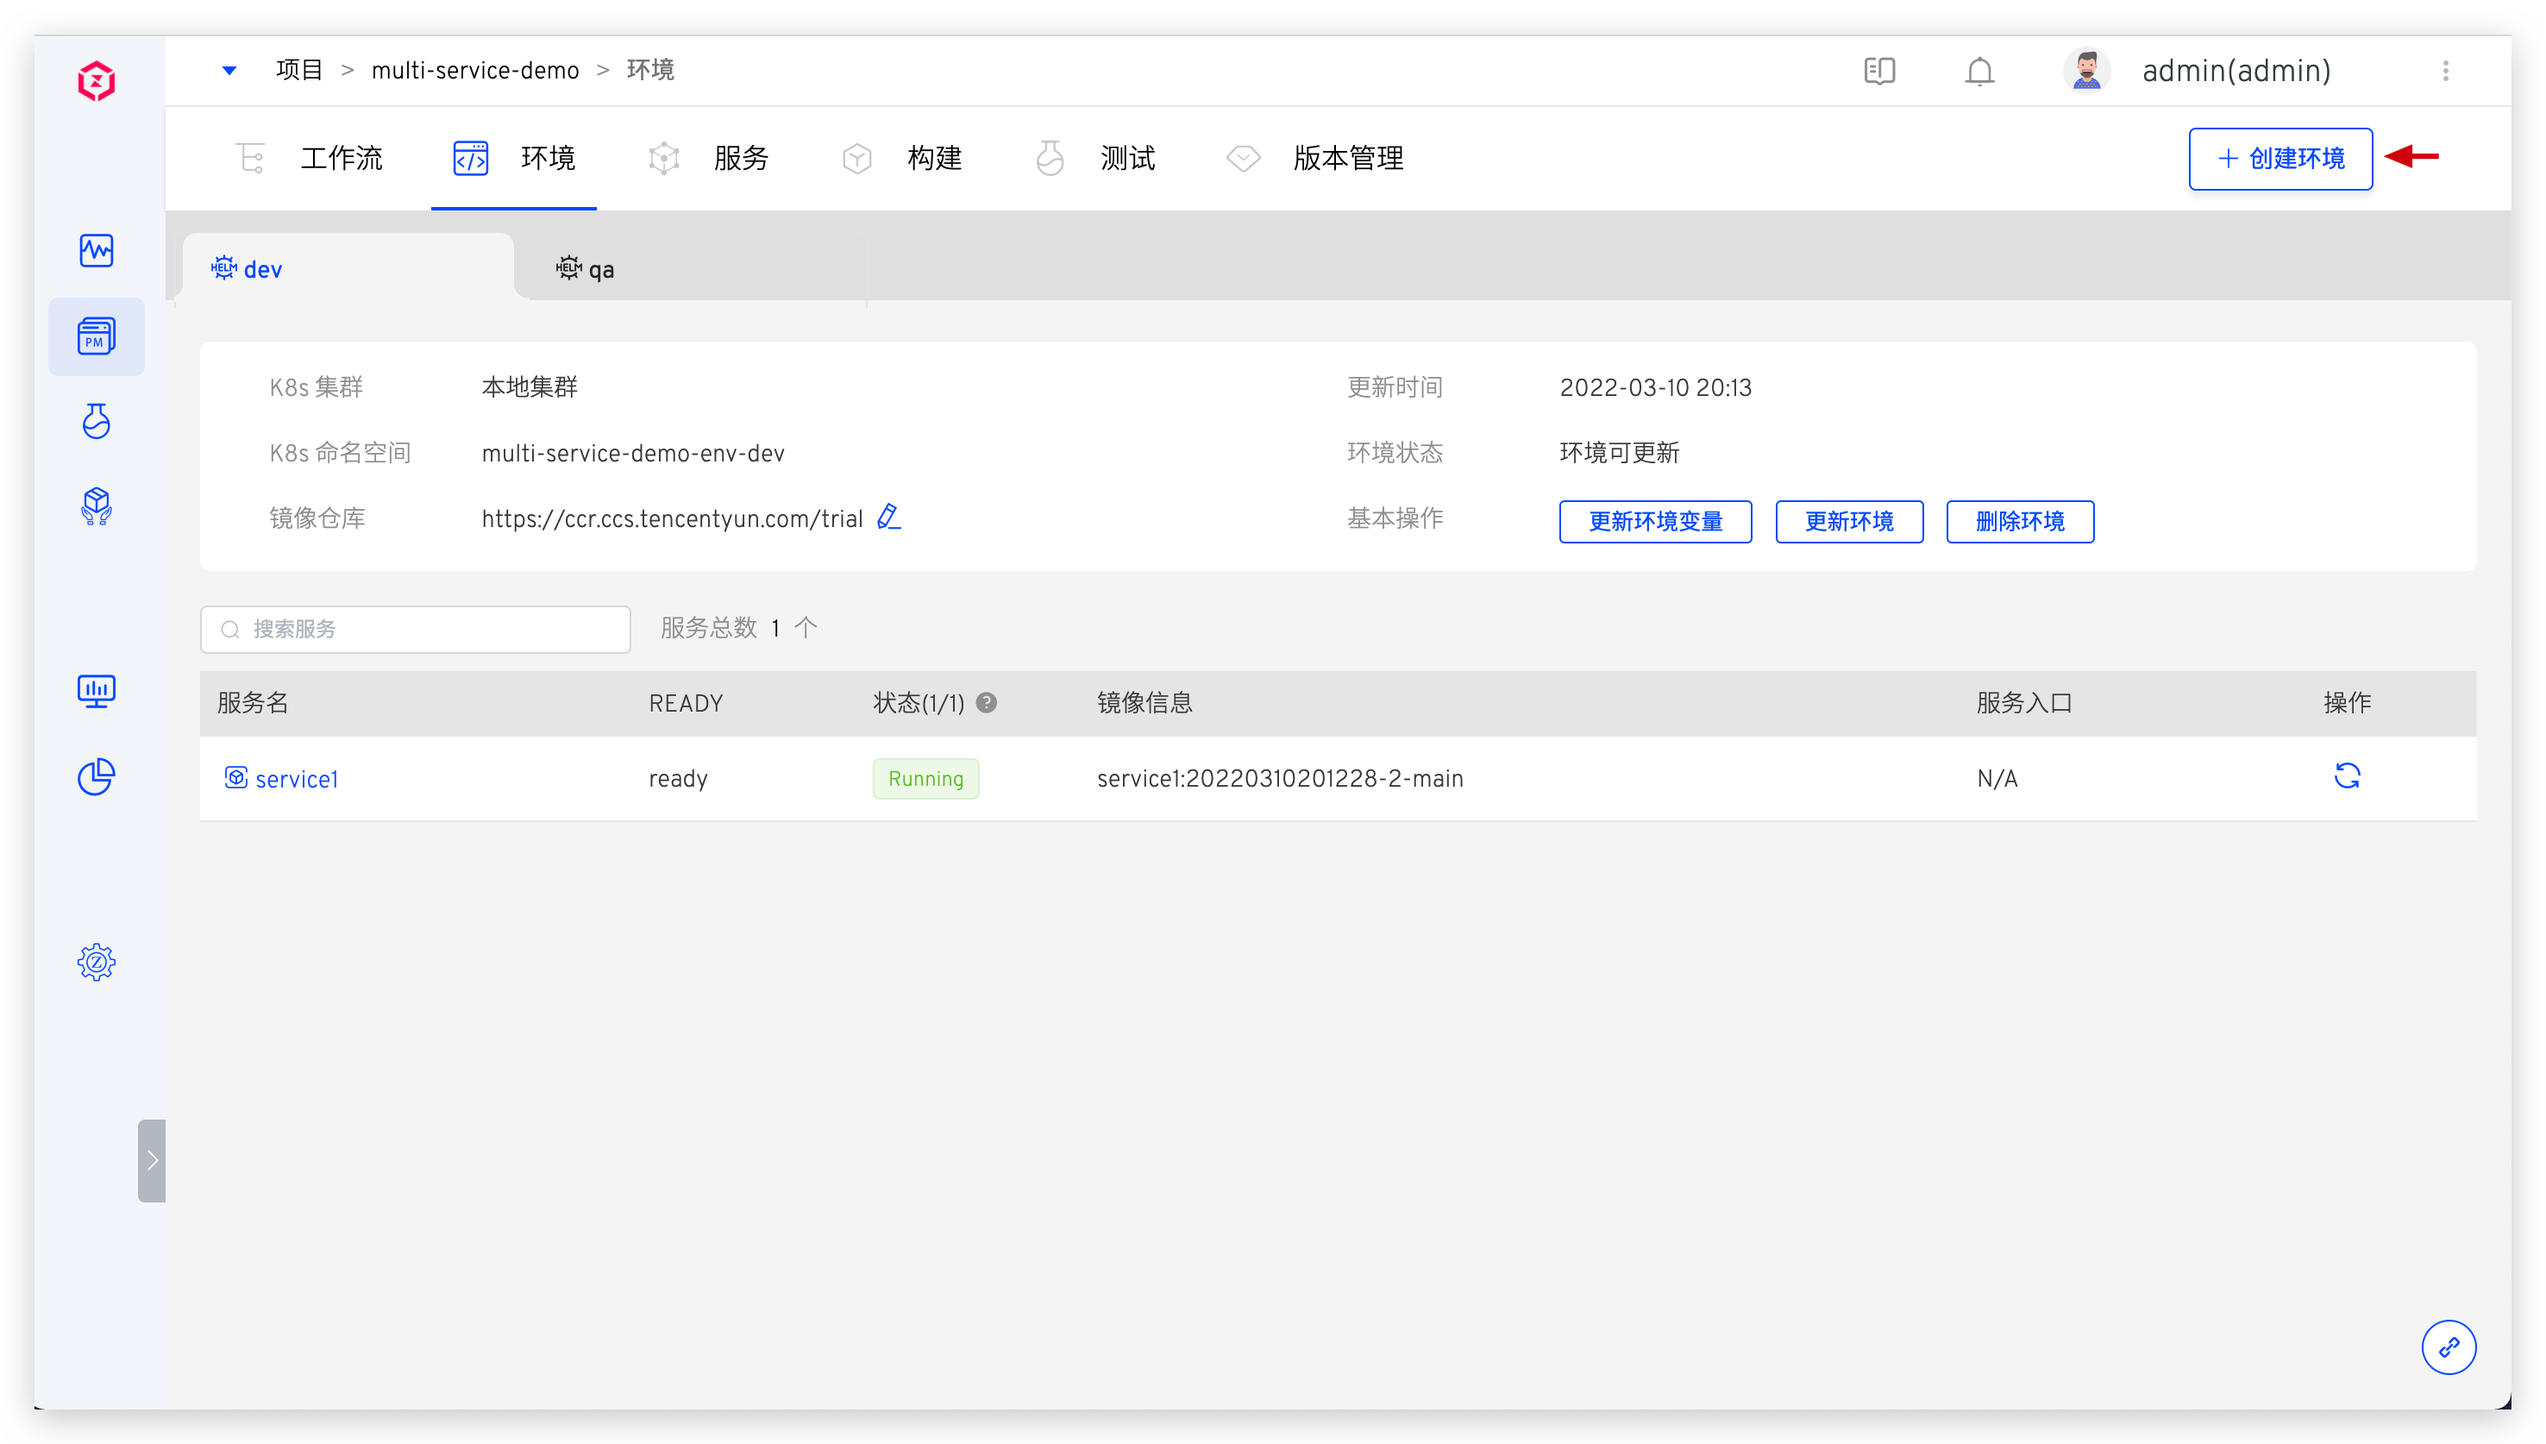
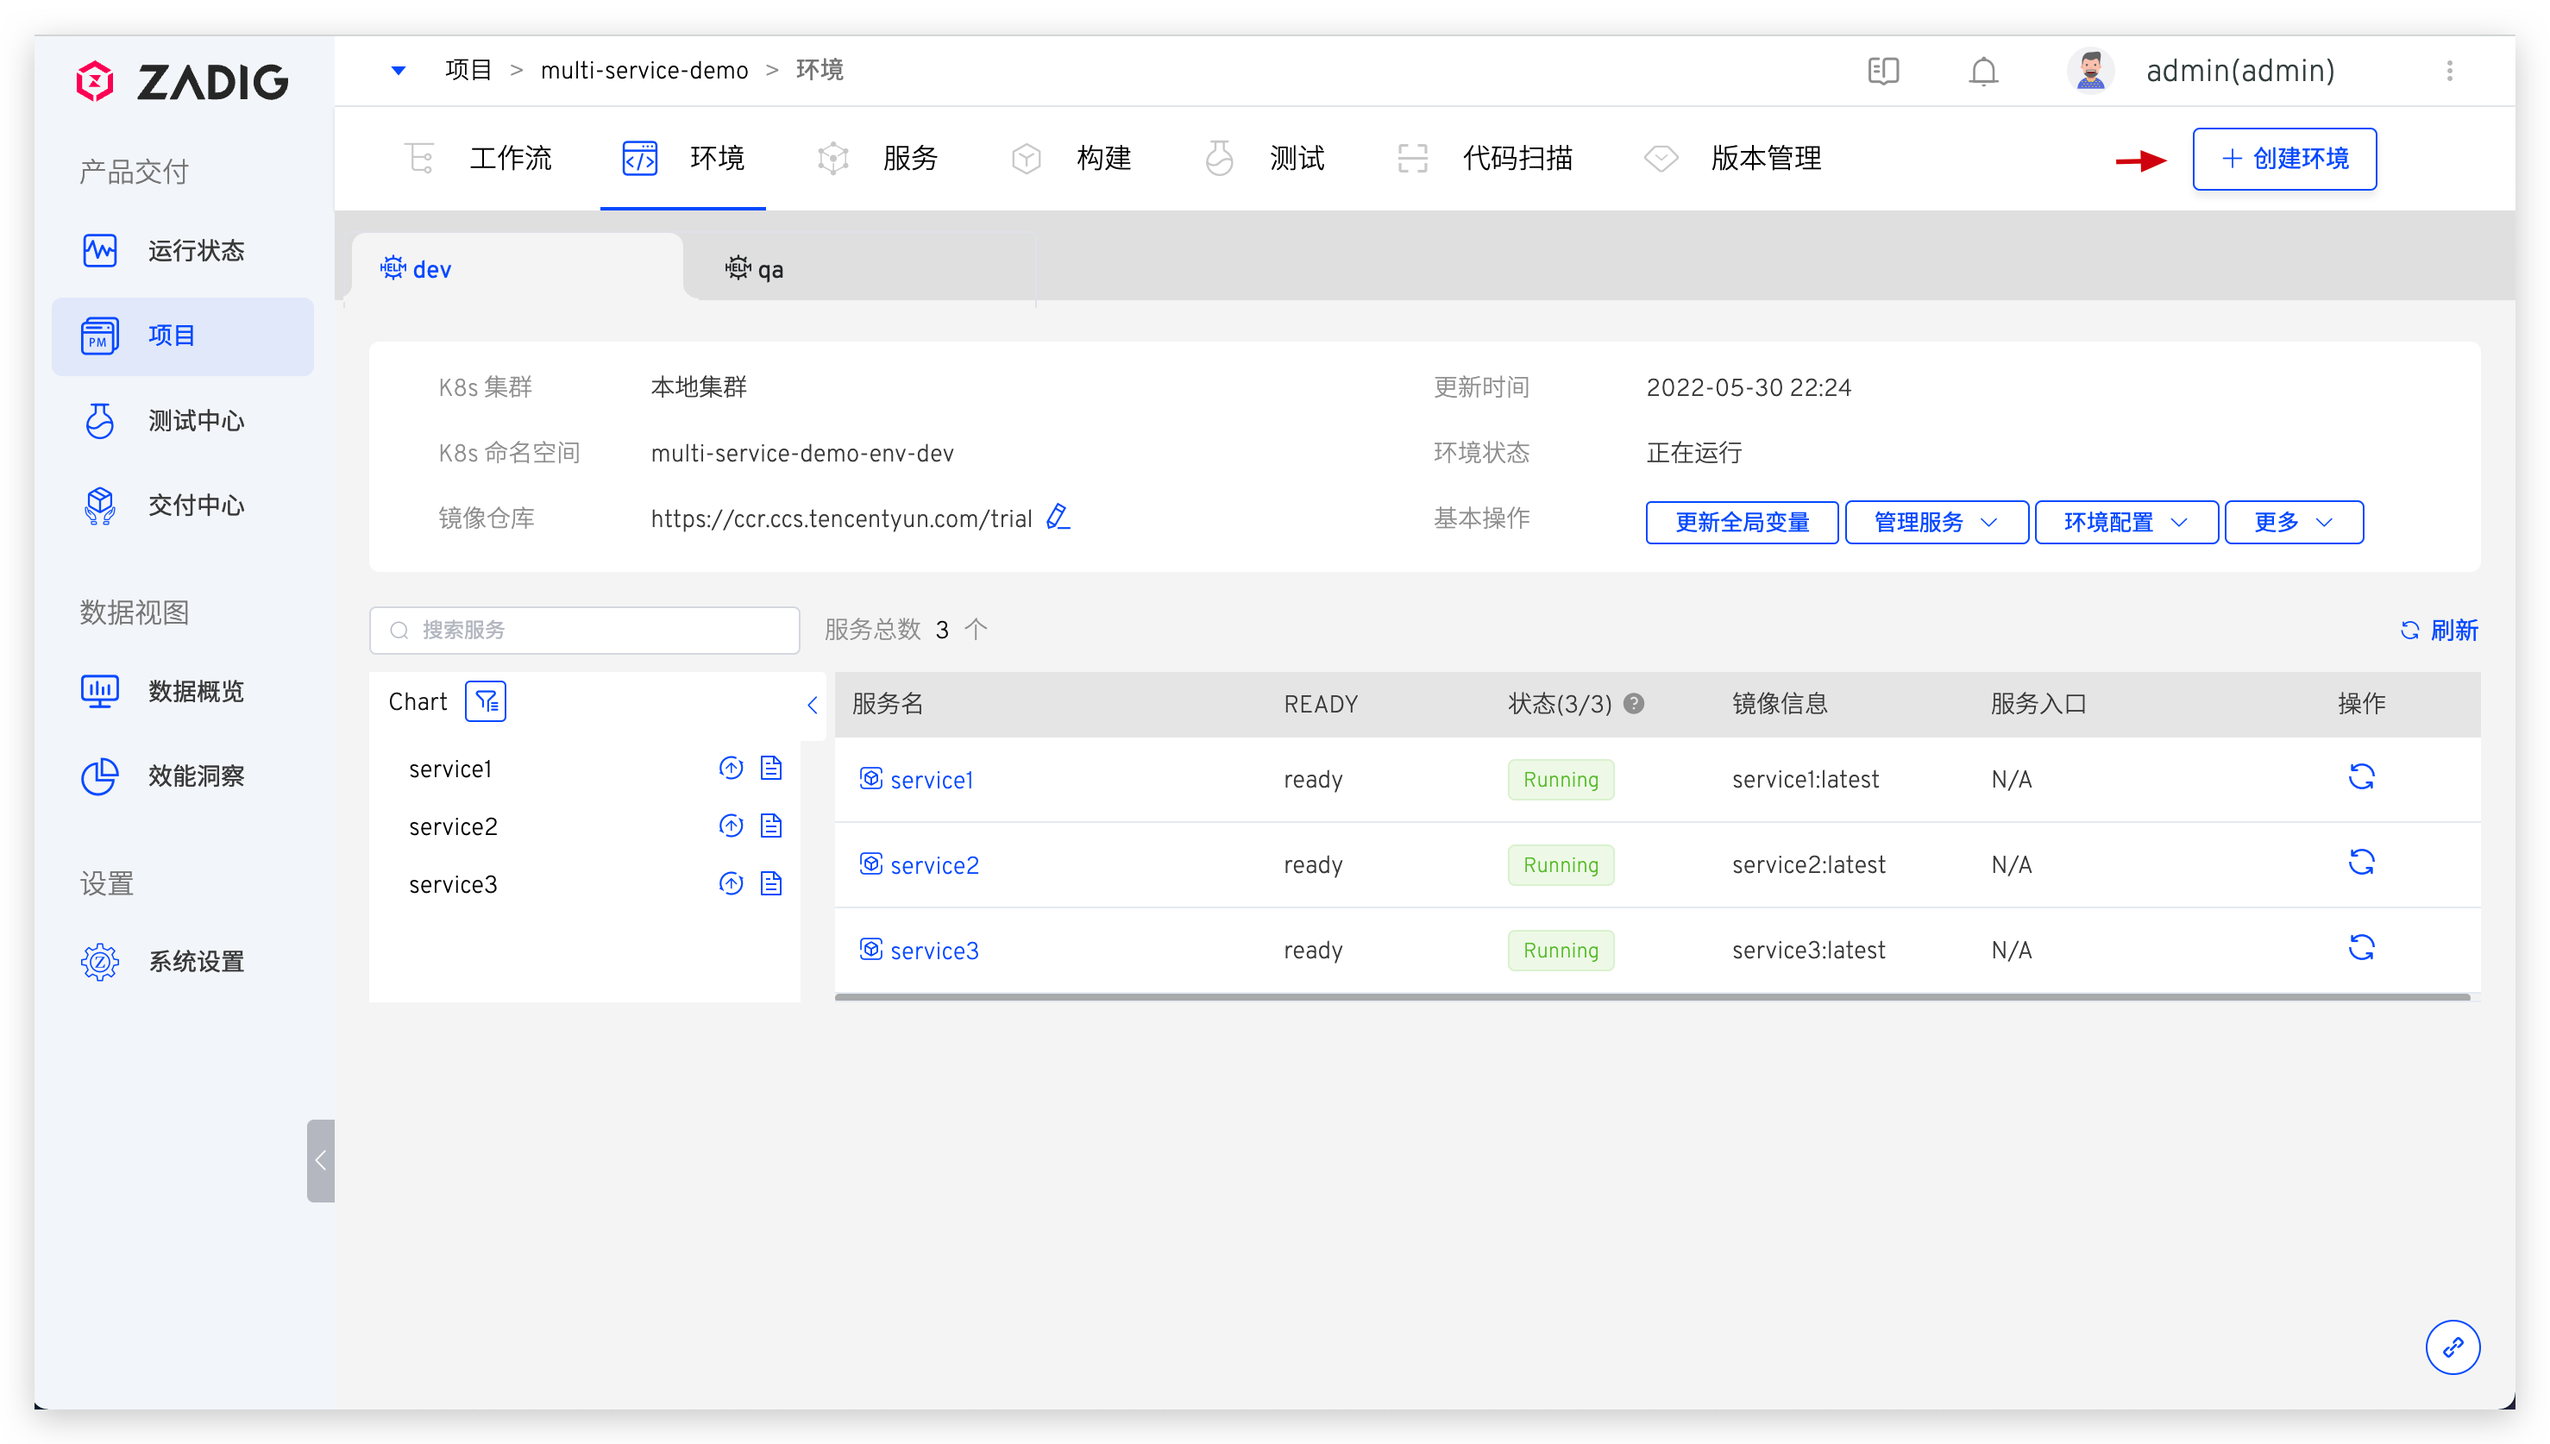
helm chart release view

diff --git a/dev/04.项目/03.环境/02.k8s_helm_environment.md b/dev/04.项目/03.环境/02.k8s_helm_environment.md
@@ -74,7 +74,7 @@ permalink: /dev/project/env/helm/chart/
 ![查看 Helm Chart 环境](../_images/helm_chart_env_list.png)
 
 ### 基本信息
-基本信息包括 K8s 集群，K8s 命名空间，更新时间，环境状态，镜像仓库。
+基本信息包括 K8s 集群，K8s 命名空间，更新时间，环境状态，镜像仓库，服务列表及 [Chart 视图](#chart-视图)。
 
 环境状态有以下几种情况：
 - `创建中`：正在创建。
@@ -162,6 +162,16 @@ permalink: /dev/project/env/helm/chart/
 ### 服务详情
 
 在服务列表中点击具体的服务可查看该服务的更多信息，可以对服务进行服务重启、服务伸缩、配置管理、更新镜像等操作。具体请阅读[服务详情](/dev/project/env/service/)。
+
+### Chart 视图
+
+在服务列表左侧的 Chart 视图中可查看服务实例的 values 文件内容，点击左侧的更新按钮可对环境中的服务进行更新。
+
+![chart release 视图](../_images/chart_release_view.png)
+
+若更新失败，服务会变为红色，可查看具体的失败原因。
+
+![chart release 视图](../_images/chart_release_view_error_msg.png)
 
 ## 自测模式
 
